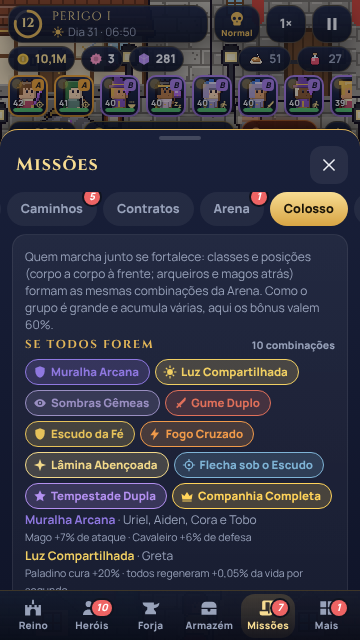
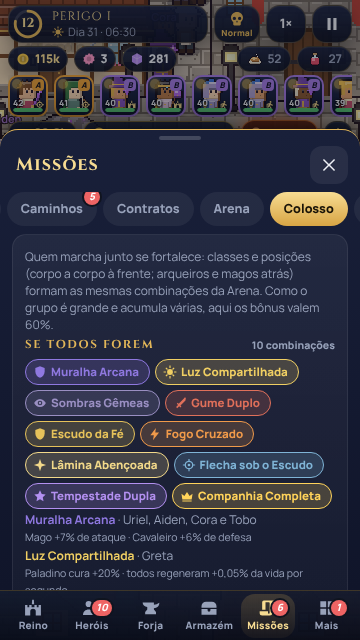
feat: compact Colossus group card (details for the first 4 combos) and live-group capture
Claude-Session: https://claude.ai/code/session_01RExi7NTrsFec5vZJ8UCPb2

diff --git a/jogos/aurora-cronicas-da-fenda/aurora.html b/jogos/aurora-cronicas-da-fenda/aurora.html
@@ -15065,7 +15065,7 @@ button.ttl{padding:4px 0 0;text-align:left;font-size:12px}
       let h = '<div class="sec">Formação do grupo</div><div class="card sy-col"><p class="rs-lead mut">Quem marcha junto se fortalece: classes e posições (corpo a corpo à frente; arqueiros e magos atrás) formam as mesmas combinações da Arena. Como o grupo é grande e acumula várias, aqui os bônus valem ' + Math.round(G.SYN_COL * 100) + '%.</p>';
       h += '<div class="sy-h" style="margin-bottom:0"><b style="flex:none">' + (live && cur.n > 0 ? 'Lutando agora' : 'Se todos forem') + '</b><span style="flex:1;text-align:right">' + (use.act.length ? use.act.length + (use.act.length === 1 ? ' combinação' : ' combinações') : 'nenhuma combinação') + '</span></div>';
       if (use.act.length) {
-        h += '<div class="sy-chs">' + use.act.map((a) => comboChip(G.SYN_BY[a.id])).join('') + '</div>' + use.act.map((a) => { const c = G.SYN_BY[a.id]; return '<p class="sy-eff" style="' + fcv(c.col) + '"><b>' + esc(c.name) + '</b> · ' + esc(joinNames(a.names)) + '<br><small>' + esc(c.txt) + '</small></p>'; }).join('');
+        h += '<div class="sy-chs">' + use.act.map((a) => comboChip(G.SYN_BY[a.id])).join('') + '</div>' + use.act.slice(0, 4).map((a) => { const c = G.SYN_BY[a.id]; return '<p class="sy-eff" style="' + fcv(c.col) + '"><b>' + esc(c.name) + '</b> · ' + esc(joinNames(a.names)) + '<br><small>' + esc(c.txt) + '</small></p>'; }).join('') + (use.act.length > 4 ? '<p class="sy-eff"><small>…e mais ' + (use.act.length - 4) + (use.act.length - 4 === 1 ? ' combinação' : ' combinações') + '. “Ver todas as combinações” mostra o que cada uma pede.</small></p>' : '');
       } else h += '<p class="sy-none" style="margin-top:6px">' + (live && cur.n > 0 ? 'O grupo de agora não forma nenhuma combinação.' : 'Os heróis de hoje não formam combinações.') + ' Veja quais existem abaixo.</p>';
       h += '<button class="sy-more" data-a="syncolbook">' + (showColBook ? 'Esconder as combinações' : 'Ver todas as combinações') + '</button>';
       if (showColBook) h += UI.synBook(use.act.map((a) => a.id), true);
